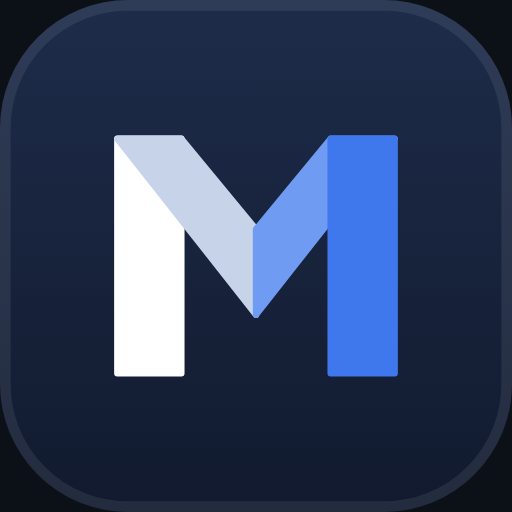
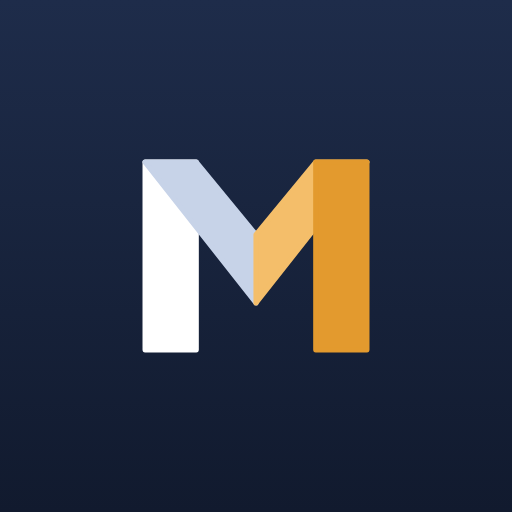
Sürüm 1.8.1: logoda altın ton
Claude-Session: https://claude.ai/code/session_01NBeY3q3apeg5ihvm1Bt56f

diff --git a/docs/index.html b/docs/index.html
@@ -56,11 +56,11 @@ header{position:sticky;top:0;z-index:5;background:var(--header-bg);backdrop-filt
 #splash .lg.big .s1{animation-delay:.3s}#splash .lg.big .s2{animation-delay:.48s}#splash .lg.big .s3{animation-delay:.62s}#splash .lg.big .s4{animation-delay:.76s}
 #splash .lg.big .shine{animation:shine 3s ease-in-out 1.25s infinite}
 #splash .nm{margin-top:22px;font-size:22px;font-weight:700;letter-spacing:5px;margin-right:-5px;text-transform:uppercase;opacity:0;animation:fade .6s ease .8s forwards}
-#splash .sline{width:28px;height:2px;border-radius:1px;background:#3F78EC;margin-top:10px;transform:scaleX(0);animation:rule .5s cubic-bezier(.2,.8,.2,1) 1s forwards}
+#splash .sline{width:28px;height:2px;border-radius:1px;background:#E39A2E;margin-top:10px;transform:scaleX(0);animation:rule .5s cubic-bezier(.2,.8,.2,1) 1s forwards}
 @keyframes rule{to{transform:none}}
 #splash .spt{margin-top:10px;font-size:11px;color:var(--muted);letter-spacing:2.5px;margin-right:-2.5px;text-transform:uppercase;opacity:0;animation:fade .6s ease 1.1s forwards}
 #splash .ld{margin-top:26px;width:112px;height:3px;border-radius:2px;background:var(--line);overflow:hidden;opacity:0;animation:fade .4s ease 1.1s forwards}
-#splash .ld i{display:block;height:100%;width:40%;border-radius:2px;background:linear-gradient(90deg,rgba(63,120,236,0),#3F78EC,rgba(63,120,236,0));animation:ld 1.1s ease-in-out infinite}
+#splash .ld i{display:block;height:100%;width:40%;border-radius:2px;background:linear-gradient(90deg,rgba(227,154,46,0),#E39A2E,rgba(227,154,46,0));animation:ld 1.1s ease-in-out infinite}
 @keyframes ld{from{transform:translateX(-100%)}to{transform:translateX(250%)}}
 @keyframes fade{to{opacity:1}}
 .thh{display:flex;align-items:baseline;justify-content:space-between;gap:8px;margin:16px 0 8px}
@@ -262,12 +262,12 @@ footer{font-size:11.5px;color:var(--faint);text-align:center;margin-top:22px;lin
   <symbol id="i-copy" viewBox="0 0 24 24"><rect x="8" y="8" width="12" height="12" rx="2"/><path d="M16 8V6a2 2 0 00-2-2H6a2 2 0 00-2 2v8a2 2 0 002 2h2"/></symbol>
 </svg>
 
-<div id="splash"><div class="sp"><svg class="lg big" viewBox="0 0 48 48" aria-hidden="true" xmlns="http://www.w3.org/2000/svg"><defs><linearGradient id="sbg" x1="0" y1="0" x2="0" y2="48" gradientUnits="userSpaceOnUse"><stop offset="0" stop-color="#1E2C4A"/><stop offset="1" stop-color="#111A2E"/></linearGradient><linearGradient id="ssh" x1="0" y1="0" x2="12" y2="0" gradientUnits="userSpaceOnUse"><stop offset="0" stop-color="#fff" stop-opacity="0"/><stop offset=".5" stop-color="#fff" stop-opacity=".22"/><stop offset="1" stop-color="#fff" stop-opacity="0"/></linearGradient><clipPath id="scl"><rect width="48" height="48" rx="12"/></clipPath></defs><rect width="48" height="48" rx="12" fill="url(#sbg)"/><rect x=".5" y=".5" width="47" height="47" rx="11.5" fill="none" stroke="#fff" stroke-opacity=".08"/><polygon class="s1" points="11,35 11,13 17,13 17,35" fill="#FFFFFF" stroke="#FFFFFF" stroke-width=".6" stroke-linejoin="round"/><polygon class="s2" points="11,13 17,13 24,21.5 24,29.5" fill="#C7D3E8" stroke="#C7D3E8" stroke-width=".6" stroke-linejoin="round"/><polygon class="s3" points="37,13 31,13 24,21.5 24,29.5" fill="#6F9BF2" stroke="#6F9BF2" stroke-width=".6" stroke-linejoin="round"/><polygon class="s4" points="31,13 37,13 37,35 31,35" fill="#3F78EC" stroke="#3F78EC" stroke-width=".6" stroke-linejoin="round"/><g clip-path="url(#scl)"><rect class="shine" x="0" y="-6" width="12" height="60" fill="url(#ssh)"/></g></svg><div class="nm">Masal</div><div class="sline"></div><div class="spt">Senin için çalışır</div><div class="ld"><i></i></div></div></div>
+<div id="splash"><div class="sp"><svg class="lg big" viewBox="0 0 48 48" aria-hidden="true" xmlns="http://www.w3.org/2000/svg"><defs><linearGradient id="sbg" x1="0" y1="0" x2="0" y2="48" gradientUnits="userSpaceOnUse"><stop offset="0" stop-color="#1E2C4A"/><stop offset="1" stop-color="#111A2E"/></linearGradient><linearGradient id="ssh" x1="0" y1="0" x2="12" y2="0" gradientUnits="userSpaceOnUse"><stop offset="0" stop-color="#fff" stop-opacity="0"/><stop offset=".5" stop-color="#fff" stop-opacity=".22"/><stop offset="1" stop-color="#fff" stop-opacity="0"/></linearGradient><clipPath id="scl"><rect width="48" height="48" rx="12"/></clipPath></defs><rect width="48" height="48" rx="12" fill="url(#sbg)"/><rect x=".5" y=".5" width="47" height="47" rx="11.5" fill="none" stroke="#fff" stroke-opacity=".08"/><polygon class="s1" points="11,35 11,13 17,13 17,35" fill="#FFFFFF" stroke="#FFFFFF" stroke-width=".6" stroke-linejoin="round"/><polygon class="s2" points="11,13 17,13 24,21.5 24,29.5" fill="#C7D3E8" stroke="#C7D3E8" stroke-width=".6" stroke-linejoin="round"/><polygon class="s3" points="37,13 31,13 24,21.5 24,29.5" fill="#F4BE6A" stroke="#F4BE6A" stroke-width=".6" stroke-linejoin="round"/><polygon class="s4" points="31,13 37,13 37,35 31,35" fill="#E39A2E" stroke="#E39A2E" stroke-width=".6" stroke-linejoin="round"/><g clip-path="url(#scl)"><rect class="shine" x="0" y="-6" width="12" height="60" fill="url(#ssh)"/></g></svg><div class="nm">Masal</div><div class="sline"></div><div class="spt">Senin için çalışır</div><div class="ld"><i></i></div></div></div>
 
 <header>
   <div class="wrap">
     <div class="bar">
-      <div class="logo" id="logo"><svg class="lg" viewBox="0 0 48 48" aria-hidden="true" xmlns="http://www.w3.org/2000/svg"><defs><linearGradient id="hbg" x1="0" y1="0" x2="0" y2="48" gradientUnits="userSpaceOnUse"><stop offset="0" stop-color="#1E2C4A"/><stop offset="1" stop-color="#111A2E"/></linearGradient><linearGradient id="hsh" x1="0" y1="0" x2="12" y2="0" gradientUnits="userSpaceOnUse"><stop offset="0" stop-color="#fff" stop-opacity="0"/><stop offset=".5" stop-color="#fff" stop-opacity=".22"/><stop offset="1" stop-color="#fff" stop-opacity="0"/></linearGradient><clipPath id="hcl"><rect width="48" height="48" rx="12"/></clipPath></defs><rect width="48" height="48" rx="12" fill="url(#hbg)"/><rect x=".5" y=".5" width="47" height="47" rx="11.5" fill="none" stroke="#fff" stroke-opacity=".08"/><polygon class="s1" points="11,35 11,13 17,13 17,35" fill="#FFFFFF" stroke="#FFFFFF" stroke-width=".6" stroke-linejoin="round"/><polygon class="s2" points="11,13 17,13 24,21.5 24,29.5" fill="#C7D3E8" stroke="#C7D3E8" stroke-width=".6" stroke-linejoin="round"/><polygon class="s3" points="37,13 31,13 24,21.5 24,29.5" fill="#6F9BF2" stroke="#6F9BF2" stroke-width=".6" stroke-linejoin="round"/><polygon class="s4" points="31,13 37,13 37,35 31,35" fill="#3F78EC" stroke="#3F78EC" stroke-width=".6" stroke-linejoin="round"/><g clip-path="url(#hcl)"><rect class="shine" x="0" y="-6" width="12" height="60" fill="url(#hsh)"/></g></svg></div>
+      <div class="logo" id="logo"><svg class="lg" viewBox="0 0 48 48" aria-hidden="true" xmlns="http://www.w3.org/2000/svg"><defs><linearGradient id="hbg" x1="0" y1="0" x2="0" y2="48" gradientUnits="userSpaceOnUse"><stop offset="0" stop-color="#1E2C4A"/><stop offset="1" stop-color="#111A2E"/></linearGradient><linearGradient id="hsh" x1="0" y1="0" x2="12" y2="0" gradientUnits="userSpaceOnUse"><stop offset="0" stop-color="#fff" stop-opacity="0"/><stop offset=".5" stop-color="#fff" stop-opacity=".22"/><stop offset="1" stop-color="#fff" stop-opacity="0"/></linearGradient><clipPath id="hcl"><rect width="48" height="48" rx="12"/></clipPath></defs><rect width="48" height="48" rx="12" fill="url(#hbg)"/><rect x=".5" y=".5" width="47" height="47" rx="11.5" fill="none" stroke="#fff" stroke-opacity=".08"/><polygon class="s1" points="11,35 11,13 17,13 17,35" fill="#FFFFFF" stroke="#FFFFFF" stroke-width=".6" stroke-linejoin="round"/><polygon class="s2" points="11,13 17,13 24,21.5 24,29.5" fill="#C7D3E8" stroke="#C7D3E8" stroke-width=".6" stroke-linejoin="round"/><polygon class="s3" points="37,13 31,13 24,21.5 24,29.5" fill="#F4BE6A" stroke="#F4BE6A" stroke-width=".6" stroke-linejoin="round"/><polygon class="s4" points="31,13 37,13 37,35 31,35" fill="#E39A2E" stroke="#E39A2E" stroke-width=".6" stroke-linejoin="round"/><g clip-path="url(#hcl)"><rect class="shine" x="0" y="-6" width="12" height="60" fill="url(#hsh)"/></g></svg></div>
       <div class="ttl"><b>Masal</b><span>Senin için çalışır</span></div>
       <span class="chip" id="mode">Sanal mod</span>
       <button class="ibtn" id="reload" aria-label="Yenile"><svg class="i"><use href="#i-refresh"/></svg></button>
@@ -381,7 +381,7 @@ footer{font-size:11.5px;color:var(--faint);text-align:center;margin-top:22px;lin
 <div class="toast" id="toast" hidden></div>
 
 <script>
-const APP_VERSION='1.8.0';
+const APP_VERSION='1.8.1';
 const ICON={dip:'i-dip',trend:'i-trend',grid:'i-grid',live:'i-coins'};
 const COLORS={dip:'#2F6FDE',trend:'#7A5AC8',grid:'#178A5B',live:'#7C8696'};
 const AMBER='#D9861A';

diff --git a/docs/sw.js b/docs/sw.js
@@ -1,5 +1,5 @@
 // Masal: çevrimdışıyken son görüntülenen sayfa ve veriler gösterilir. Her zaman önce ağ denenir.
-const CACHE = 'masal-1.8.0';
+const CACHE = 'masal-1.8.1';
 const SHELL = ['./', 'index.html', 'manifest.webmanifest', 'favicon.svg', 'icon-192.png', 'icon-512.png'];
 
 self.addEventListener('install', e => {
